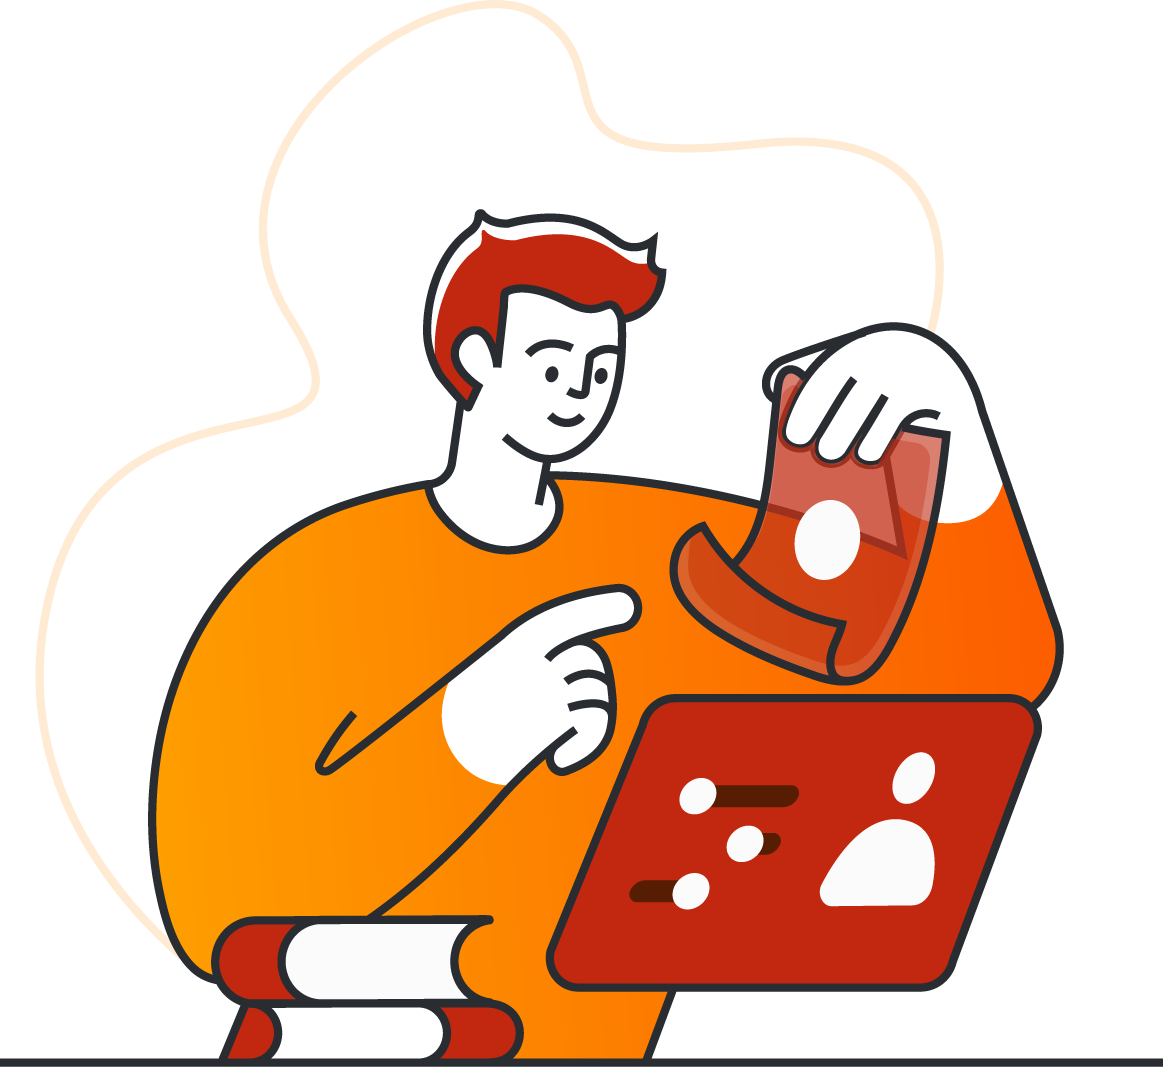
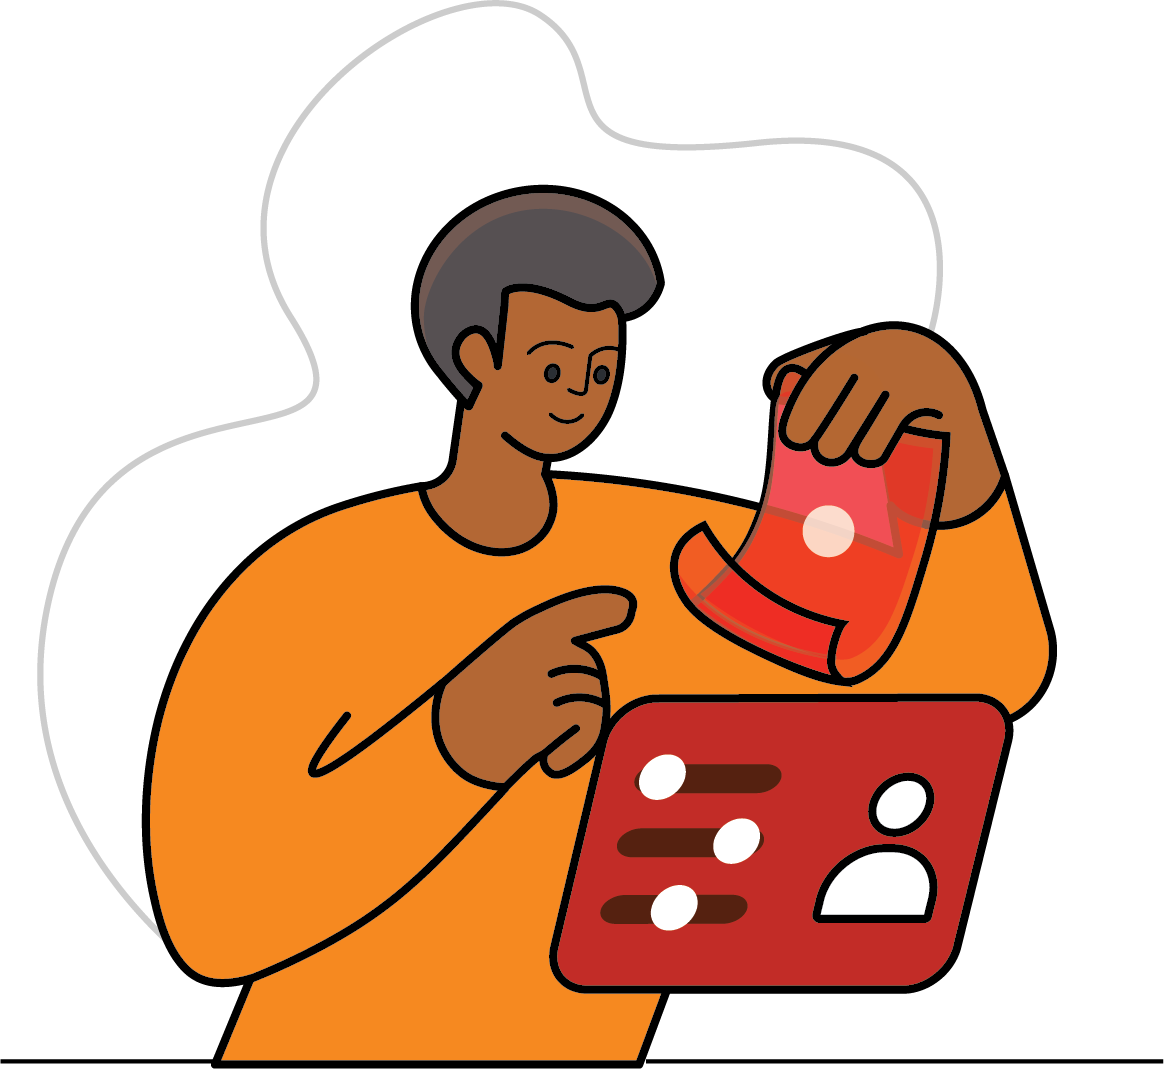
Changed onboarding graphics

diff --git a/frontend/app/_layout.tsx b/frontend/app/_layout.tsx
@@ -12,9 +12,12 @@ import { GestureHandlerRootView } from 'react-native-gesture-handler';
 import { BottomSheetModalProvider } from '@gorhom/bottom-sheet';
 
 import 'react-native-url-polyfill/auto';
+import AsyncStorage from '@react-native-async-storage/async-storage';
 
 // Keep the splash screen visible while we fetch resources
 SplashScreen.preventAutoHideAsync();
+
+// AsyncStorage.clear(); // For development purposes only
 
 function RootLayoutNav() {
   const { isAuthenticated, hasCompletedOnboarding } = useAuth();
